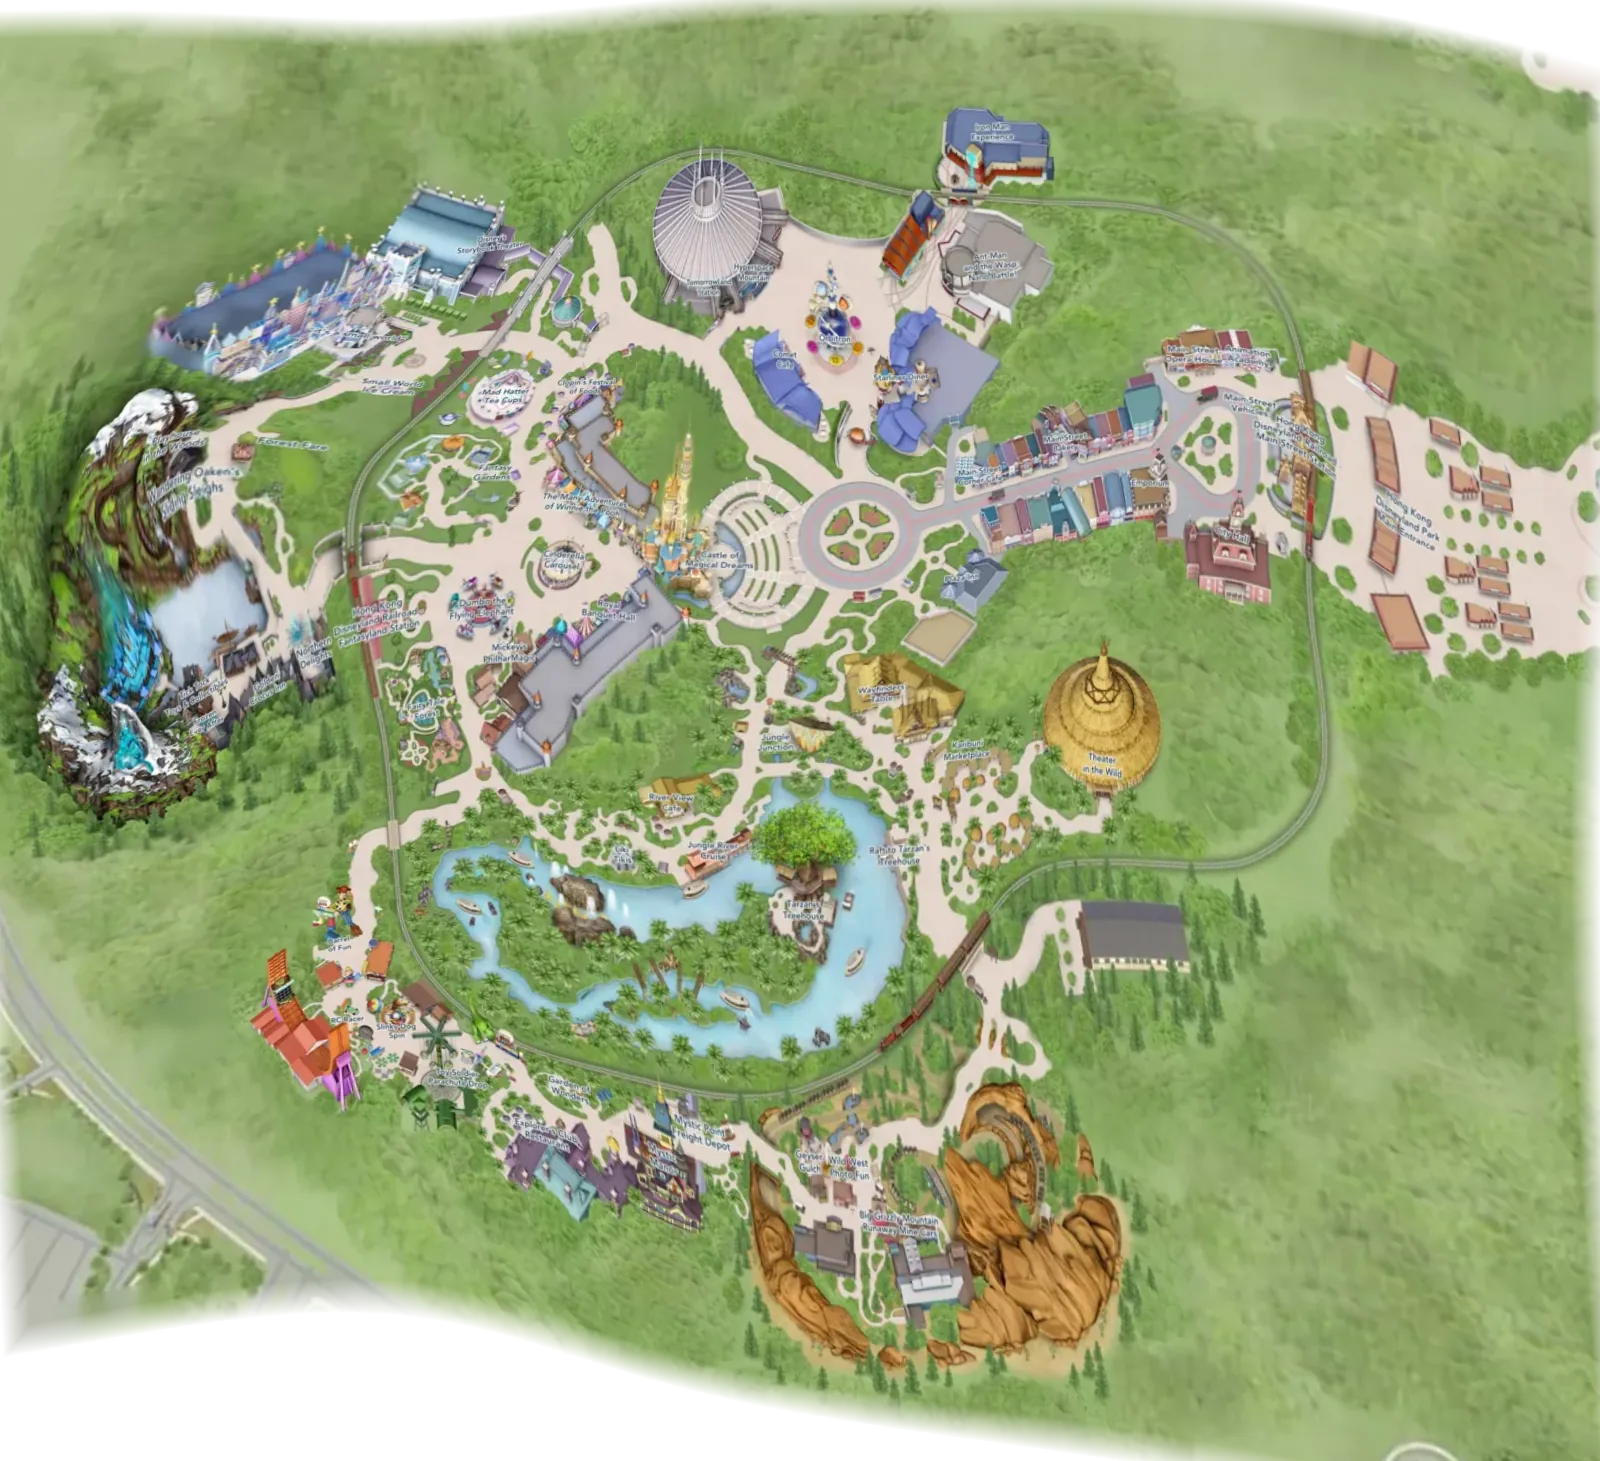
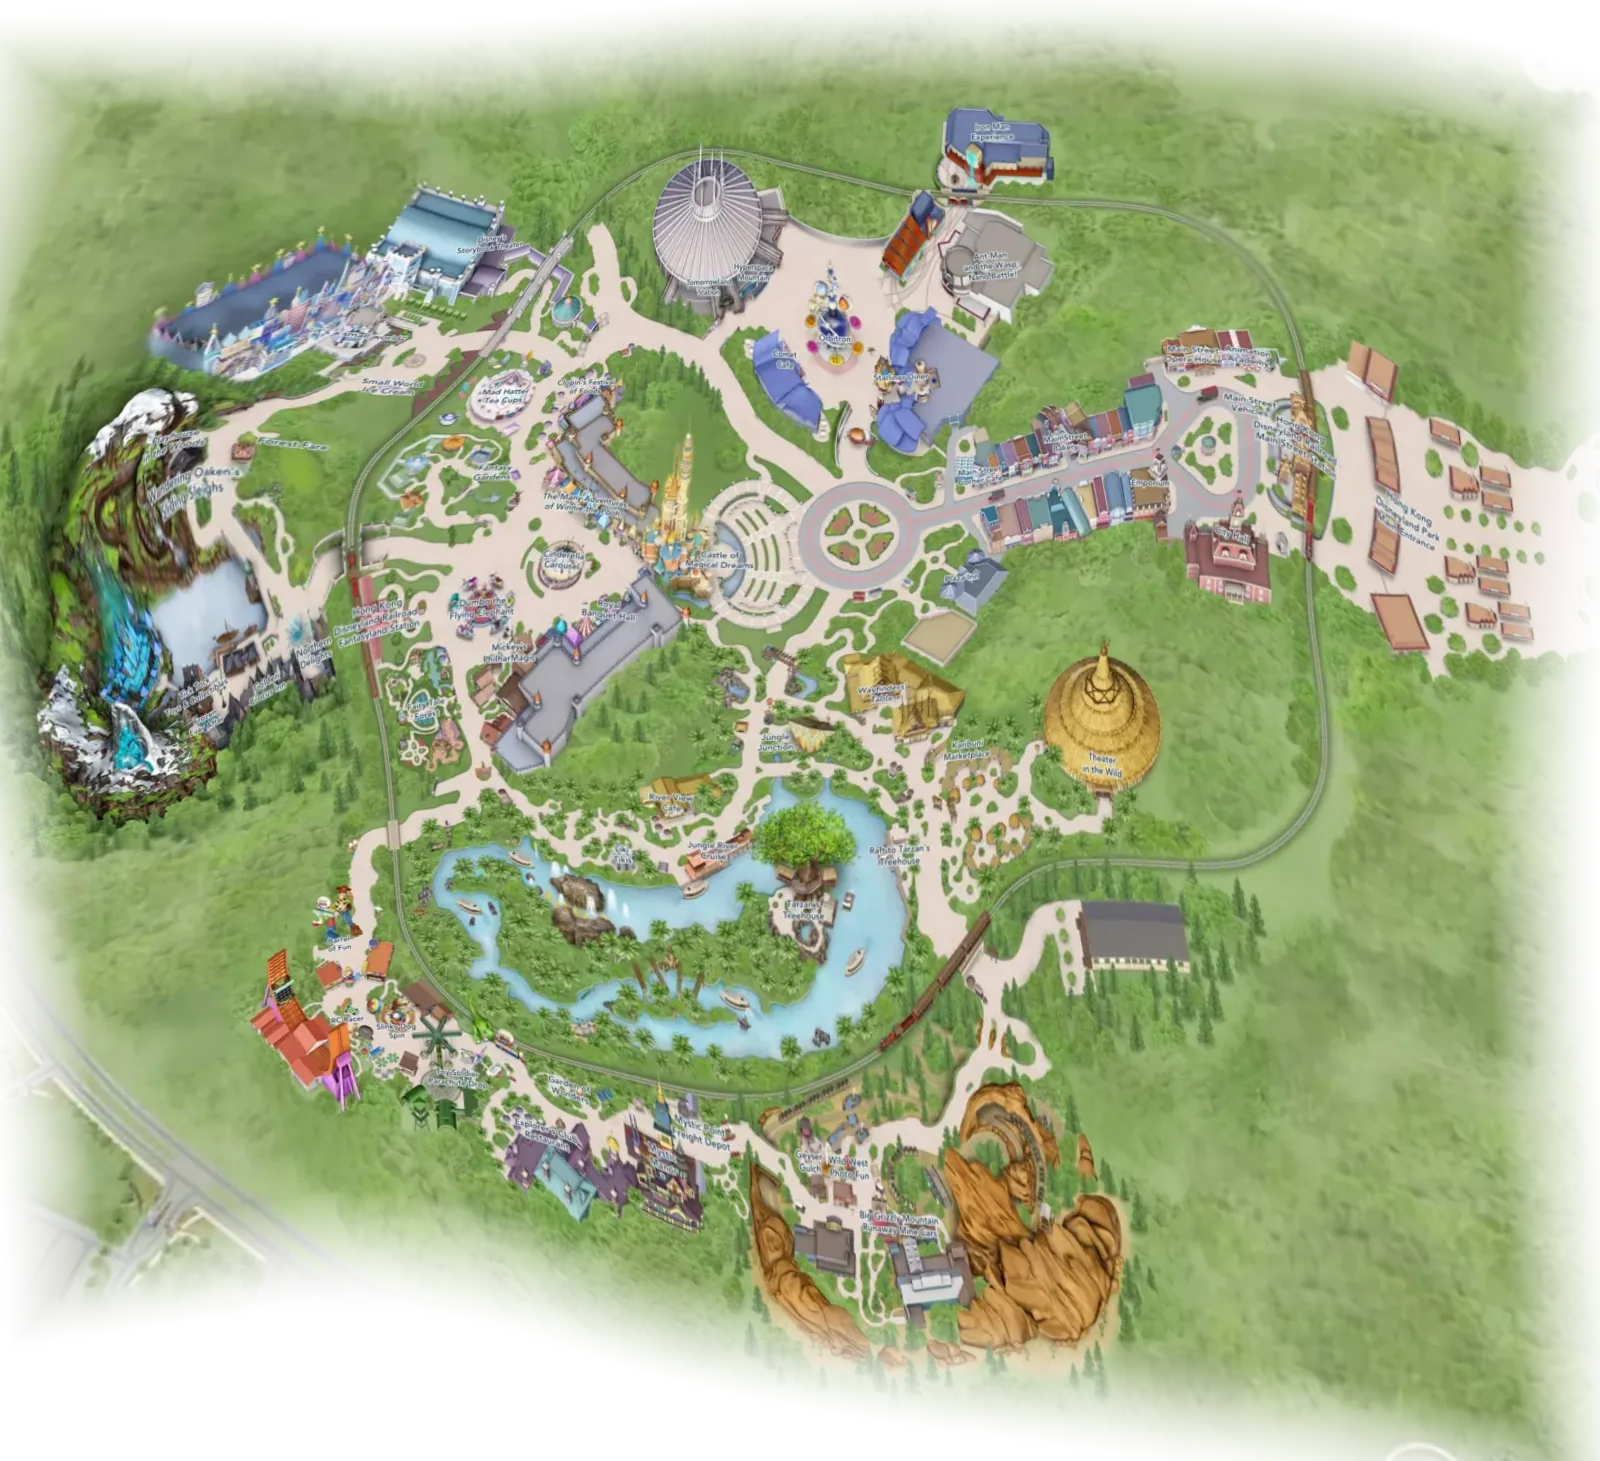
Plan du parc : bords fondus dans le fond de carte
Claude-Session: https://claude.ai/code/session_01Fj5N22VxBqfAQwm5w6txvt

Changed region(s): [[0.0, 0.0, 1.0, 1.0]]

diff --git a/tools/park-calibrate.py b/tools/park-calibrate.py
@@ -72,9 +72,9 @@ arr = np.asarray(src).astype(np.float32)
 out = np.zeros((OH, OW, 4), np.float32)
 for ch in range(4):
     out[..., ch] = map_coordinates(arr[..., ch], [Q[..., 1], Q[..., 0]], order=1, mode="constant", cval=0)
-# Bords adoucis (25 px) pour que l'illustration se fonde dans le fond de carte.
+# Bords adoucis (90 px de forêt) pour que l'illustration se fonde dans le fond de carte.
 d = np.minimum.reduce([Q[..., 0], W0 - Q[..., 0], Q[..., 1], H0 - Q[..., 1]])
-out[..., 3] *= np.clip(d / 25.0, 0, 1)
+out[..., 3] *= np.clip(d / 90.0, 0, 1) ** 1.5
 img = Image.fromarray(out.clip(0, 255).astype(np.uint8), "RGBA")
 dst = os.path.join(ROOT, "android/app/src/main/assets/map/hkdl-plan.webp")
 os.makedirs(os.path.dirname(dst), exist_ok=True)
